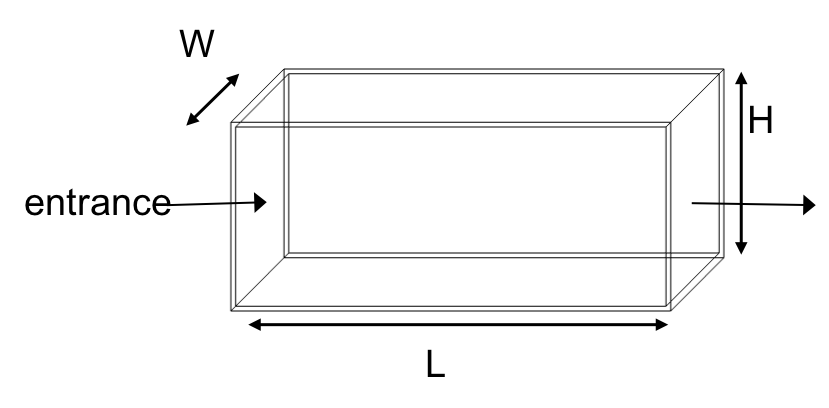
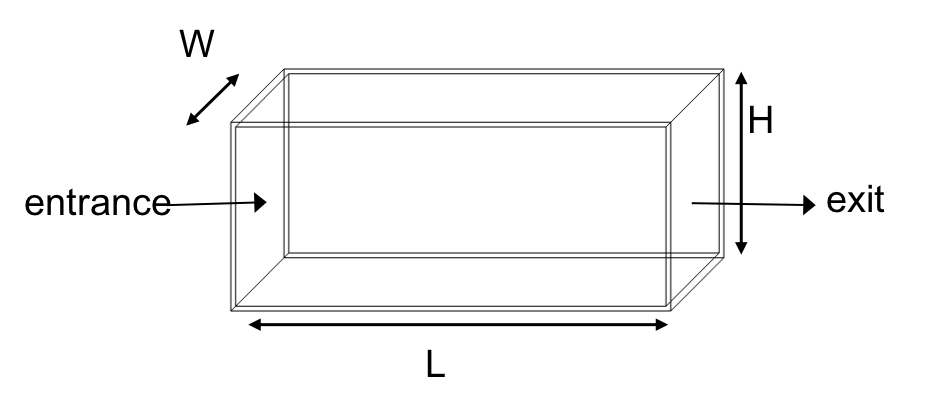
vertical flow sedimentation tanks

diff --git a/Sedimentation/Sed_Design.rst b/Sedimentation/Sed_Design.rst
@@ -262,7 +262,13 @@ Vertical Flow Sedimentation Tank
 ----------------------------------
 We will complete the same exercise for vertical flow sedimentation tanks. In vertical flow sedimentation tanks, water flows up from the bottom of the reactor and exits near the top of the reactor.
 
-[[[[show vertical flow sedimentation tank]]]]
+.. _figure_vertical_flow_tank_base:
+.. figure:: Images/vertical_flow_tank_base.png
+    :height: 100px
+    :align: center
+    :alt: Vertical flow sedimentation tank.
+
+    Vertical flow sedimentation tank.
 
 1) How much time is required for water to pass through the tank?
 
